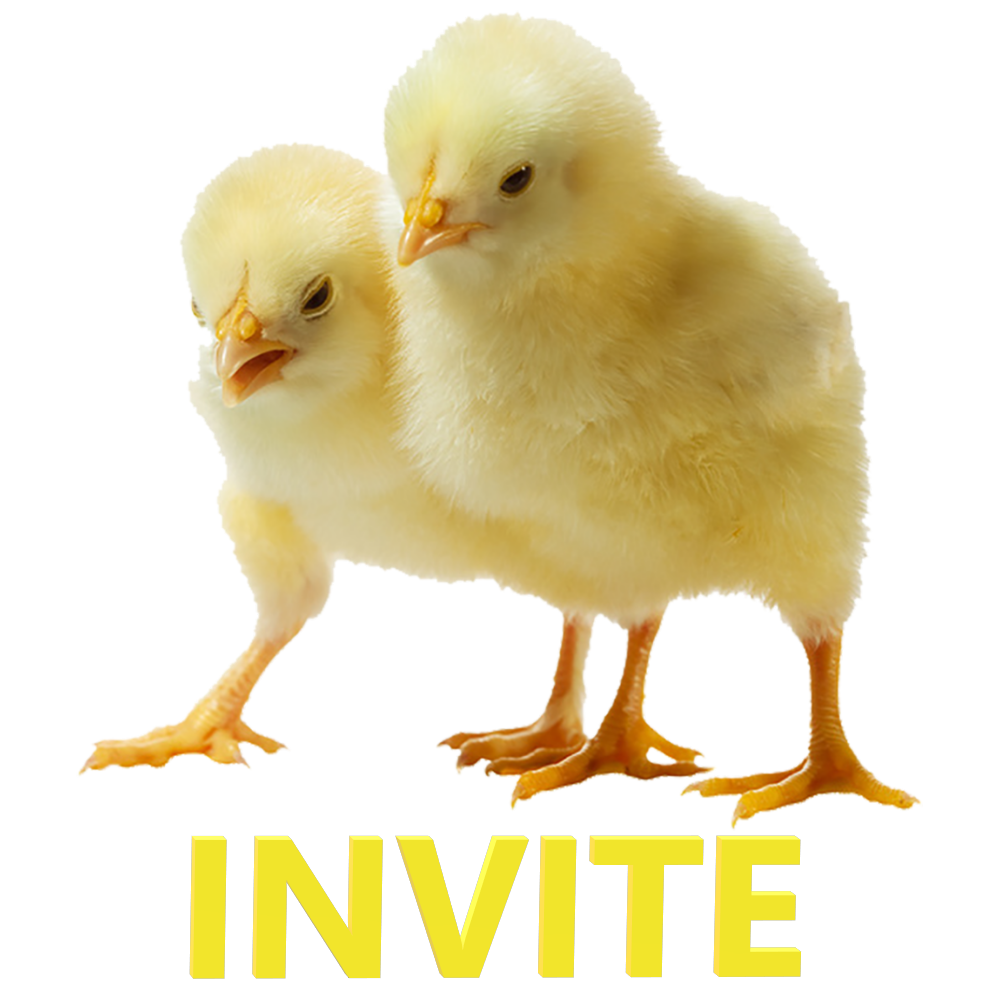
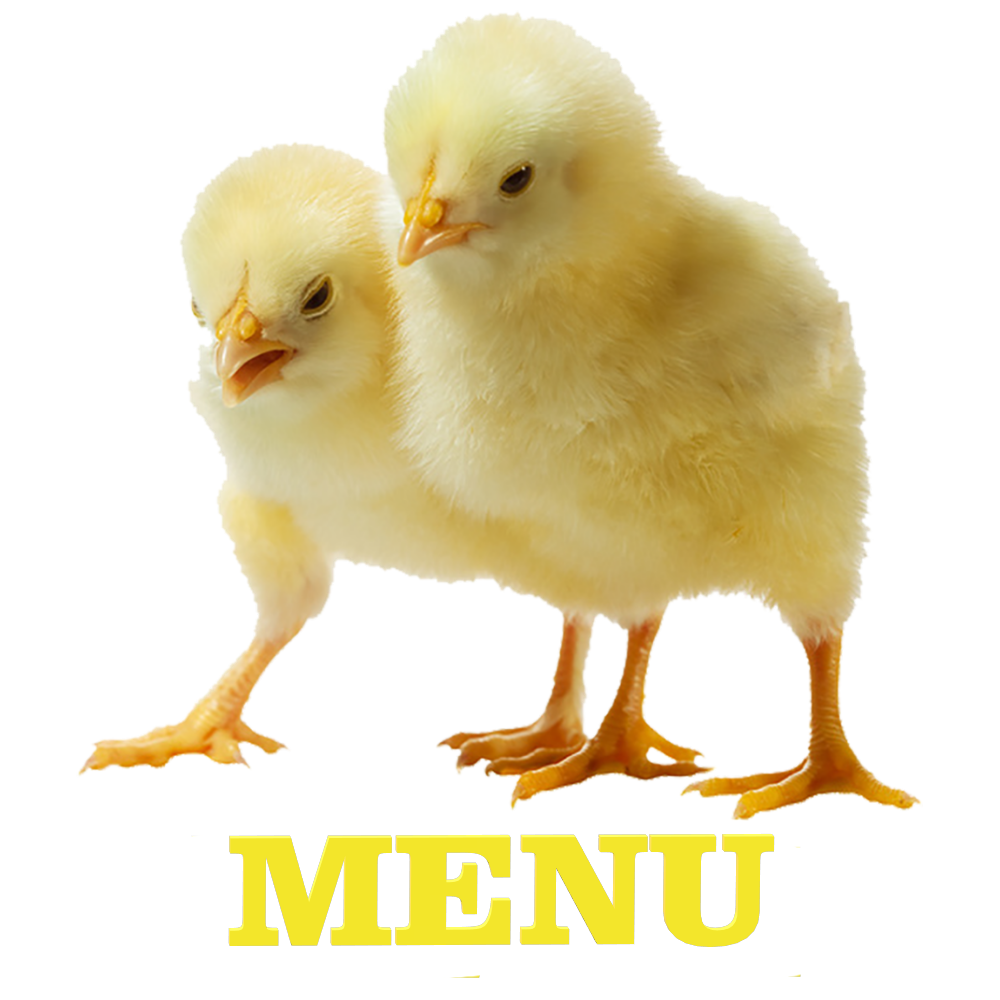
menu1

Changed region(s): [[0.186, 0.806, 0.806, 0.992]]

diff --git a/index.html b/index.html
@@ -30,14 +30,7 @@
             <!-- Сюда будет добавлен результат добычи -->
         </div>
     </div>
-    <div class="menu-button-container">
-        <button id="menuButton">Menu</button>
-        <div id="menu" class="menu">
-            <button id="profileButton">PROFILE</button>
-            <button id="leaderboardButton">LEADERBOARD</button>
-            <button id="frensButton">FRENS</button>
-        </div>
-    </div>
+    
     <div id="walletContainer"></div>
     <script type="module">
         import { saveProgress, getProgress } from 'public/js/firebase.js';
@@ -147,8 +140,13 @@
             <img src="public/images/rewards_icon.png" alt="Rewards Icon">
         </div>
         <!-- Контейнер для четвертой иконки -->
-        <div class="iconContainer" onclick="openInvite()">
-            <img src="public/images/invite_icon.png" alt="Invite Icon">
+        <div class="iconContainer">
+            <img id="menuButton" src="public/images/invite_icon.png" alt="Invite Icon">
+            <div id="menu" class="menu">
+                <button id="profileButton">PROFILE</button>
+                <button id="leaderboardButton">LEADERBOARD</button>
+                <button id="frensButton">FRENS</button>
+            </div>
         </div>
     </div>
     <div id="notificationModal" class="modal">
